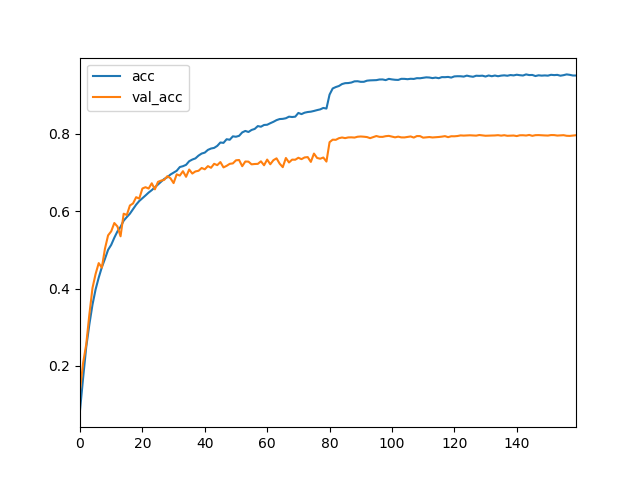
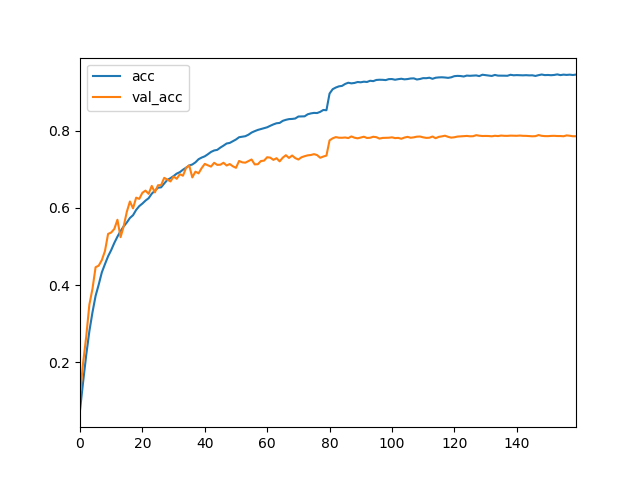
DataAugmentation

diff --git a/cifar10.py b/cifar10.py
@@ -103,7 +103,7 @@ def _run2(logger, result_dir: pathlib.Path):
     gen.add(0.125, tk.image.RandomSaturation())
     gen.add(0.125, tk.image.RandomBrightness())
     gen.add(0.125, tk.image.RandomContrast())
-    gen.add(0.125, tk.image.RandomLighting())
+    gen.add(0.125, tk.image.RandomHue())
 
     model.fit_generator(
         gen.flow(X_train, y_train, batch_size=BATCH_SIZE, data_augmentation=True, shuffle=True),

diff --git a/cifar100.py b/cifar100.py
@@ -101,7 +101,7 @@ def _run2(logger, result_dir: pathlib.Path):
     gen.add(0.125, tk.image.RandomSaturation())
     gen.add(0.125, tk.image.RandomBrightness())
     gen.add(0.125, tk.image.RandomContrast())
-    gen.add(0.125, tk.image.RandomLighting())
+    gen.add(0.125, tk.image.RandomHue())
 
     model.fit_generator(
         gen.flow(X_train, y_train, batch_size=BATCH_SIZE, data_augmentation=True, shuffle=True),

diff --git a/cifar100-vggstyle.py b/cifar100-vggstyle.py
@@ -96,7 +96,7 @@ def _run2(logger, result_dir: pathlib.Path):
     gen.add(0.125, tk.image.RandomSaturation())
     gen.add(0.125, tk.image.RandomBrightness())
     gen.add(0.125, tk.image.RandomContrast())
-    gen.add(0.125, tk.image.RandomLighting())
+    gen.add(0.125, tk.image.RandomHue())
 
     model.fit_generator(
         gen.flow(X_train, y_train, batch_size=BATCH_SIZE, data_augmentation=True, shuffle=True),
